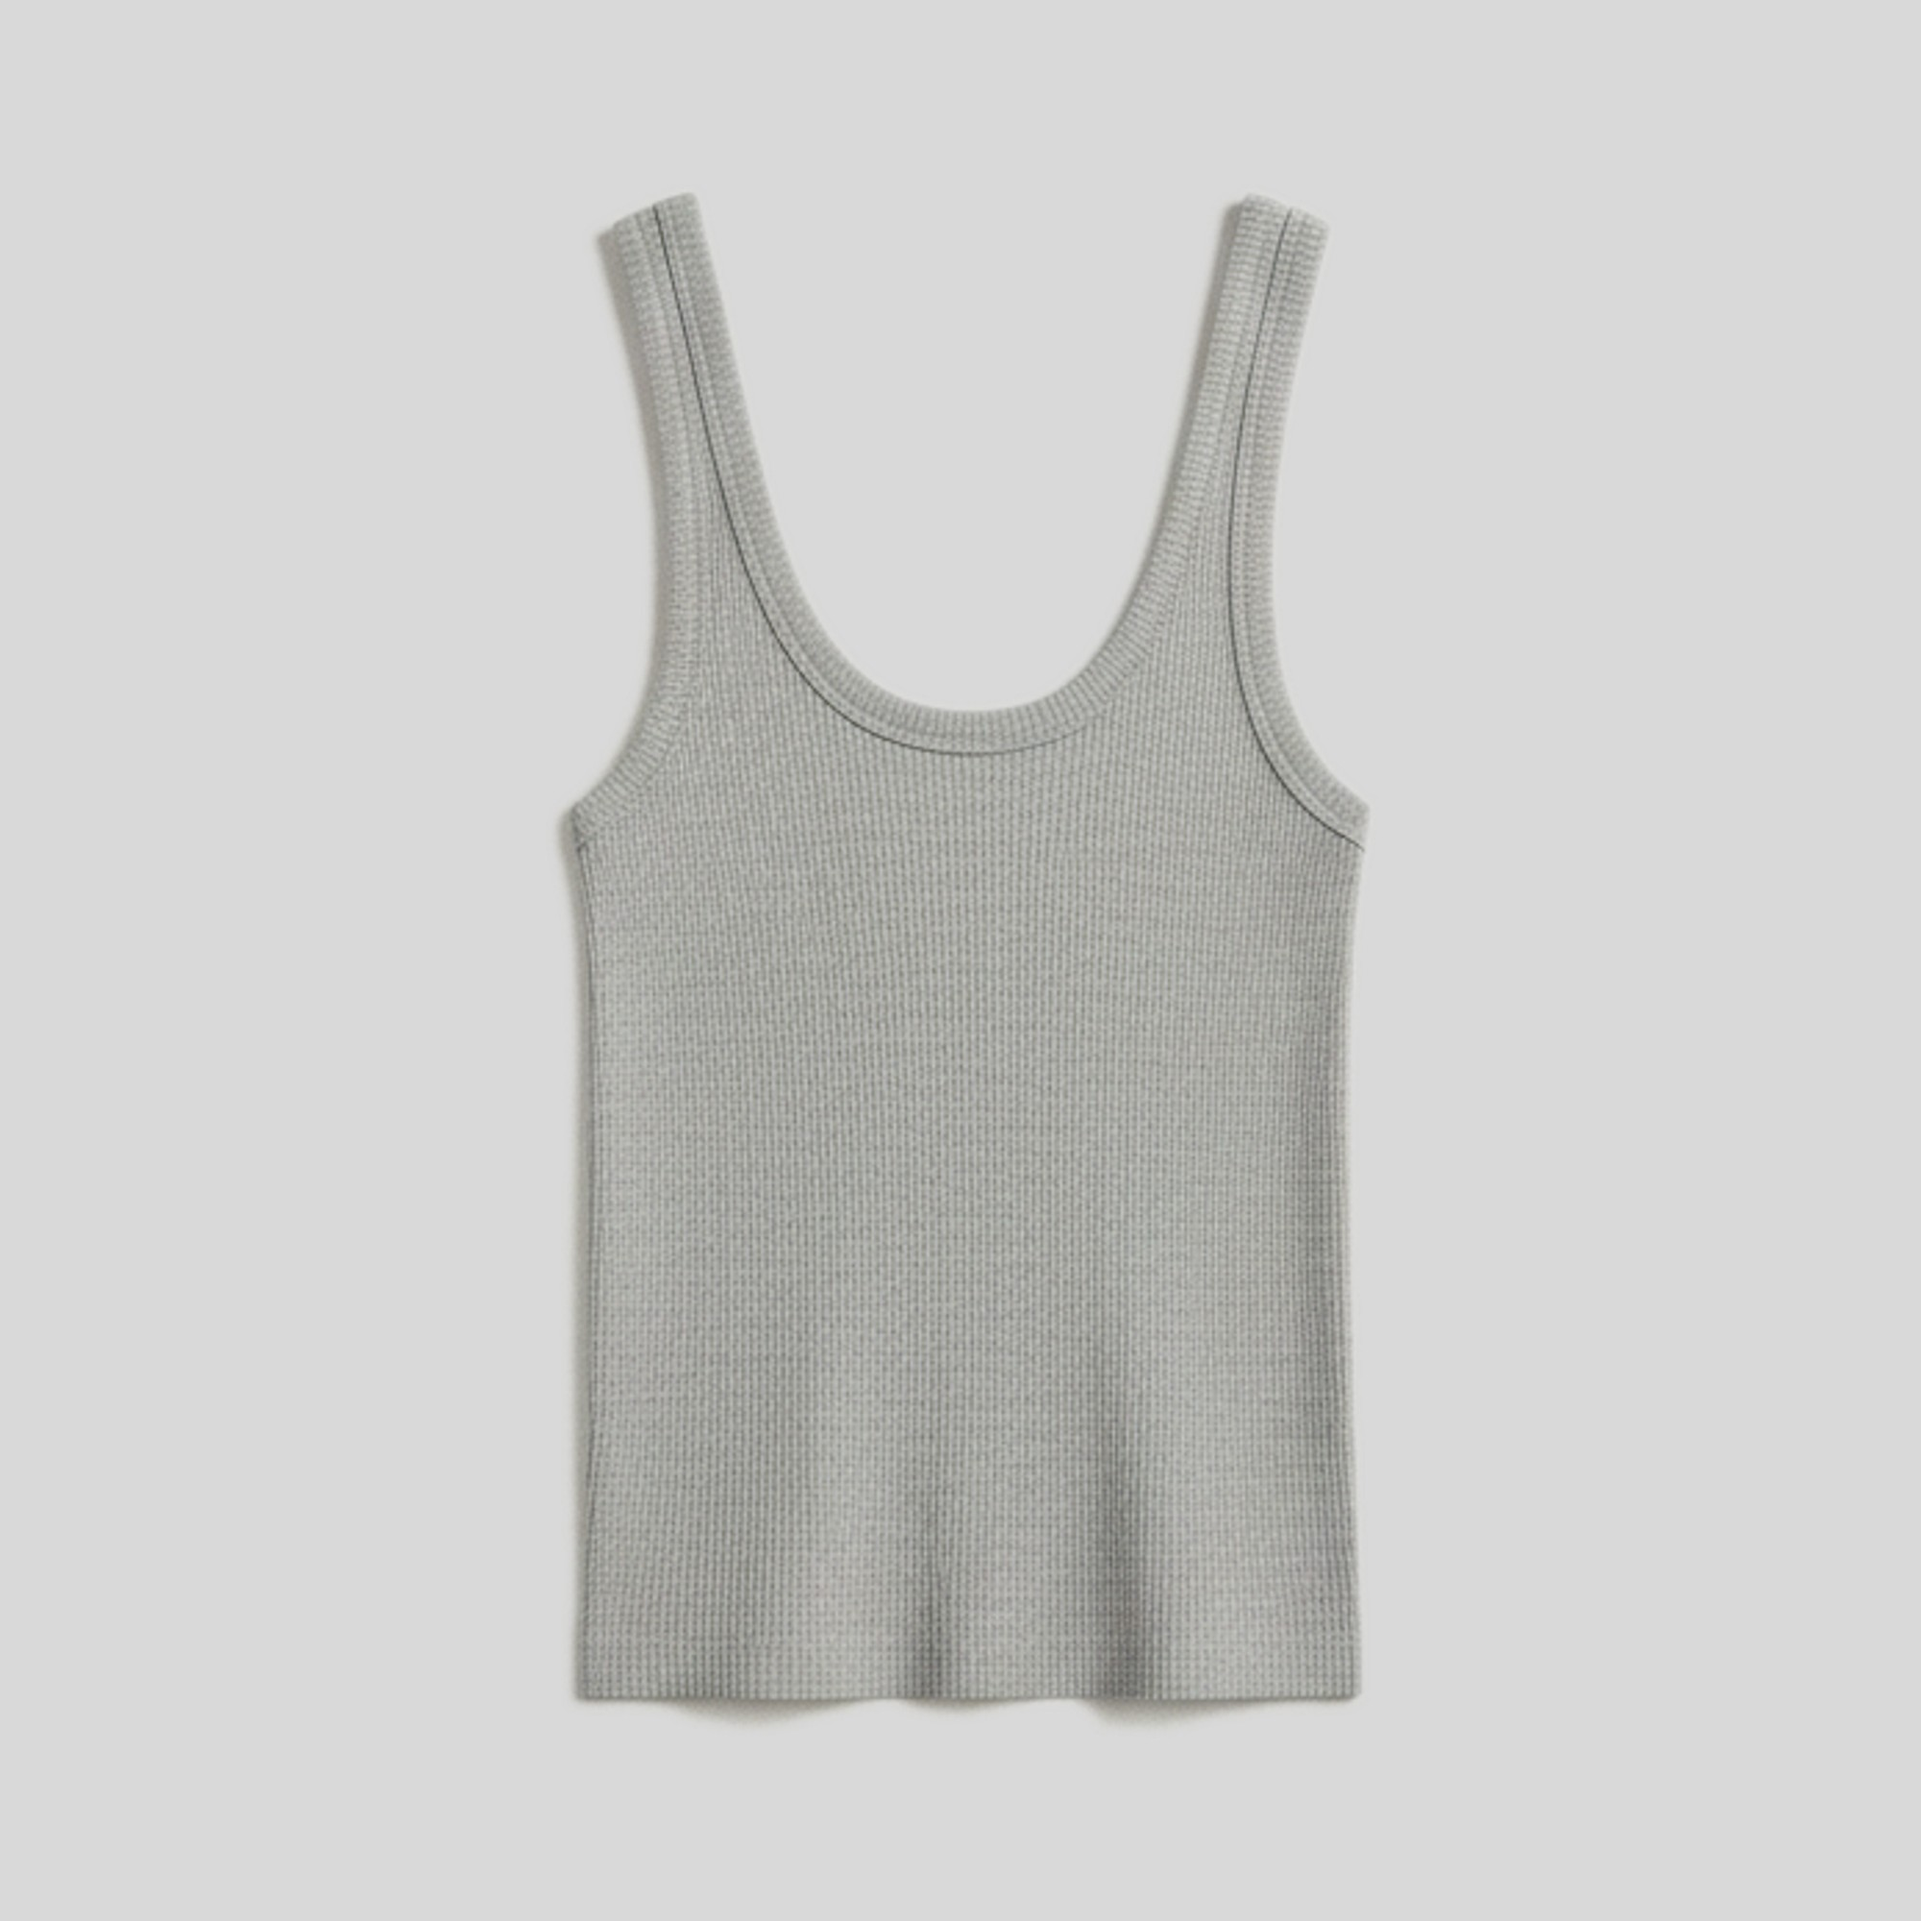
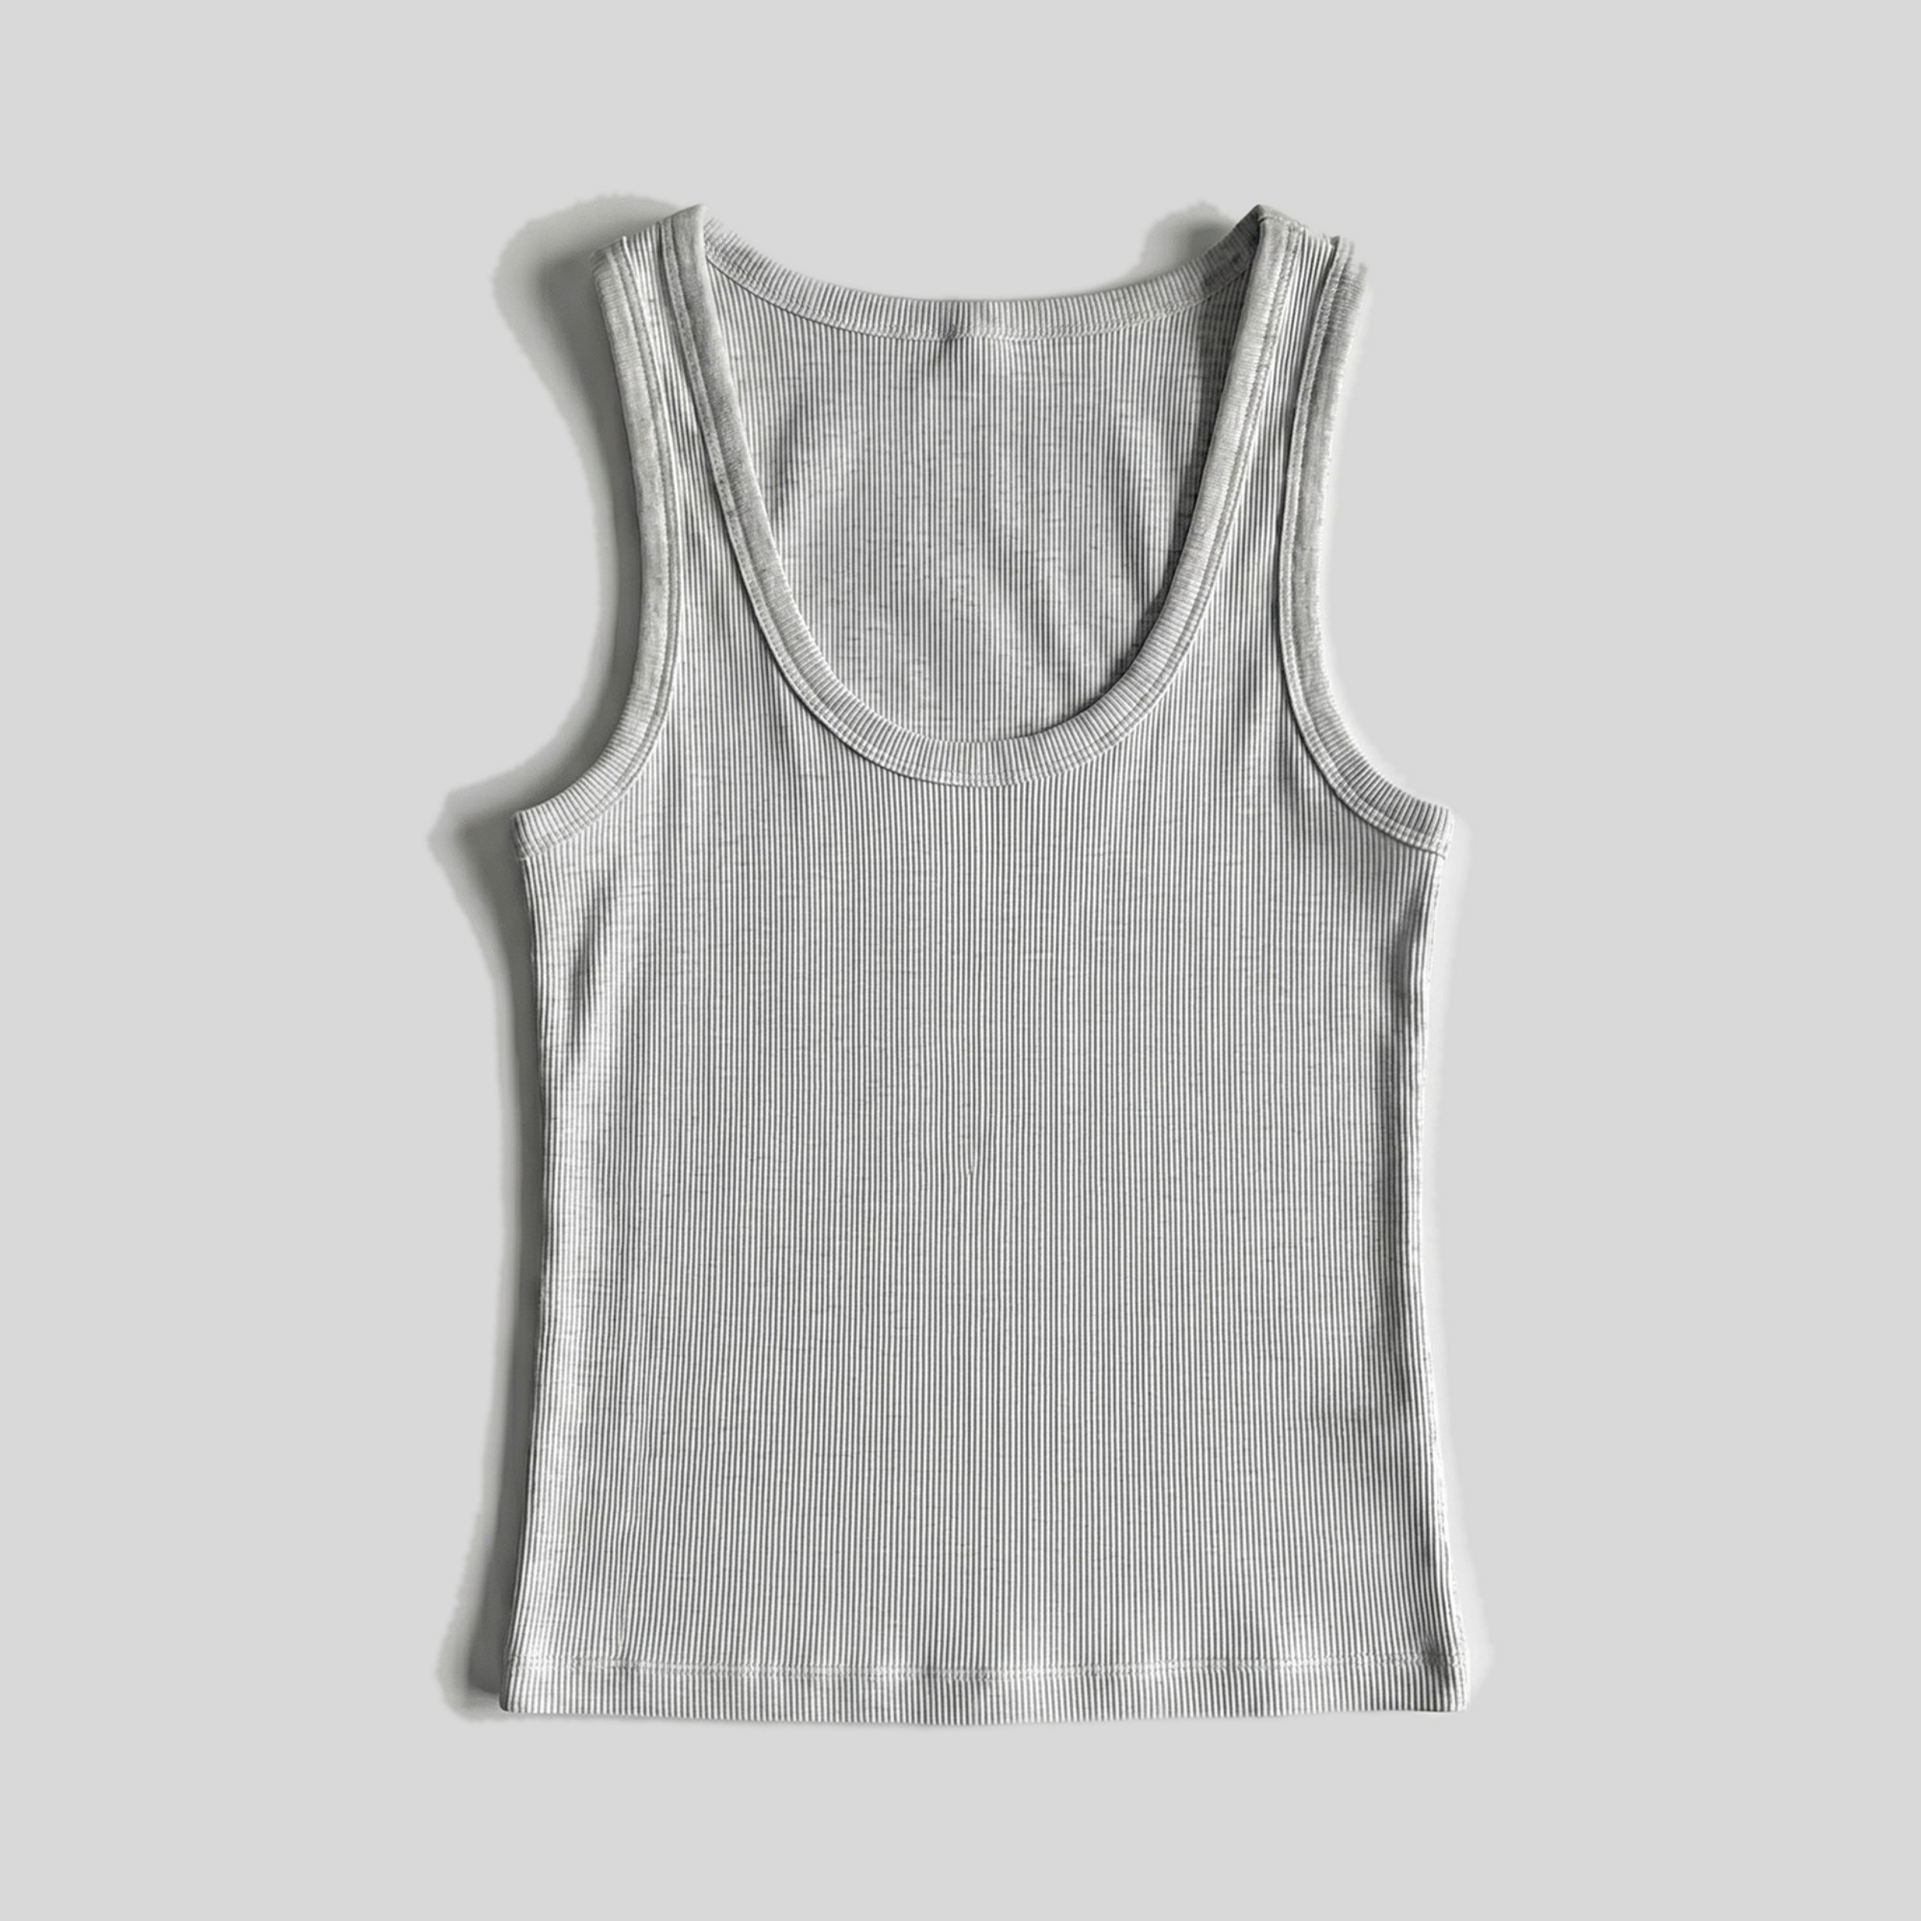
fix(musculosa-bali): usar fotos canonicas para el frente blanco/gris y agregar base negra
Las bases std de frente blanco y gris de la Musculosa Bali usaban por error
las fotos del estilo "Rib" (breteles angostos, escote distinto, foto crema en
vez de blanca real) en vez de las fotos canonicas de la Bali (breteles anchos,
escote profundo en U) — el dorso ya usaba la foto correcta, solo el frente
estaba mal. Se reconstruyen musculosa-bali-{white,gray}-front.jpg a partir de
las fotos canonicas (public/products/musculosa-bali-{blanca,gris}/front.png,
ya presentes en el repo) con el pipeline existente (scripts/f3-build-std-bases.mts,
segmentacion determinista con sharp) y se recalculan printArea/pxPerCm.

Se agrega musculosa-bali-black-front.jpg a partir de Musculosa_Rib_Negra.png
(unica foto de negro disponible, estilo distinto) con su propio printArea
calibrado a mano — la caja generica heredada de garment-mappings.json caia en
el hueco del escote en vez de sobre la tela para este estilo mas angosto.
Verificado visualmente con un logo de prueba en chico/mediano/grande.

products.ts: se corrige el campo "hero" de blanca/gris (tambien apuntaba a la
foto Rib) a la foto canonica. NO se agrega "Negra" como color vendible: no
existe (ni existio nunca) foto de dorso para negro, y app/api/partners/products/
from-design/route.ts renderiza frente+dorso de forma incondicional para
cualquier color — agregarla rompe ese endpoint (dorso con base "fallback") y
requiere tocar new-product-panel.tsx (gating front/back) + sumar un gap a
[…]

Changed region(s): [[0.217, 0.093, 0.775, 0.899]]

diff --git a/lib/catalog/products.ts b/lib/catalog/products.ts
@@ -231,14 +231,14 @@ export const CATALOG_PRODUCTS: CatalogProduct[] = [
         name: 'Blanca',
         hex: '#f5f5f5',
         thumbnail: '/garments/musculosa-bali-white-front.png',
-        hero: '/products/musculosa-bali-blanca/Musculosa_Rib_Blanca.png',
+        hero: '/products/musculosa-bali-blanca/front.png',
       },
       {
         key: 'gray',
         name: 'Gris',
         hex: '#9aa0a6',
         thumbnail: '/garments/musculosa-bali-gray-front.png',
-        hero: '/products/musculosa-bali-gris/Musculosa_Rib_Gris.png',
+        hero: '/products/musculosa-bali-gris/front.png',
       },
     ],
   },
